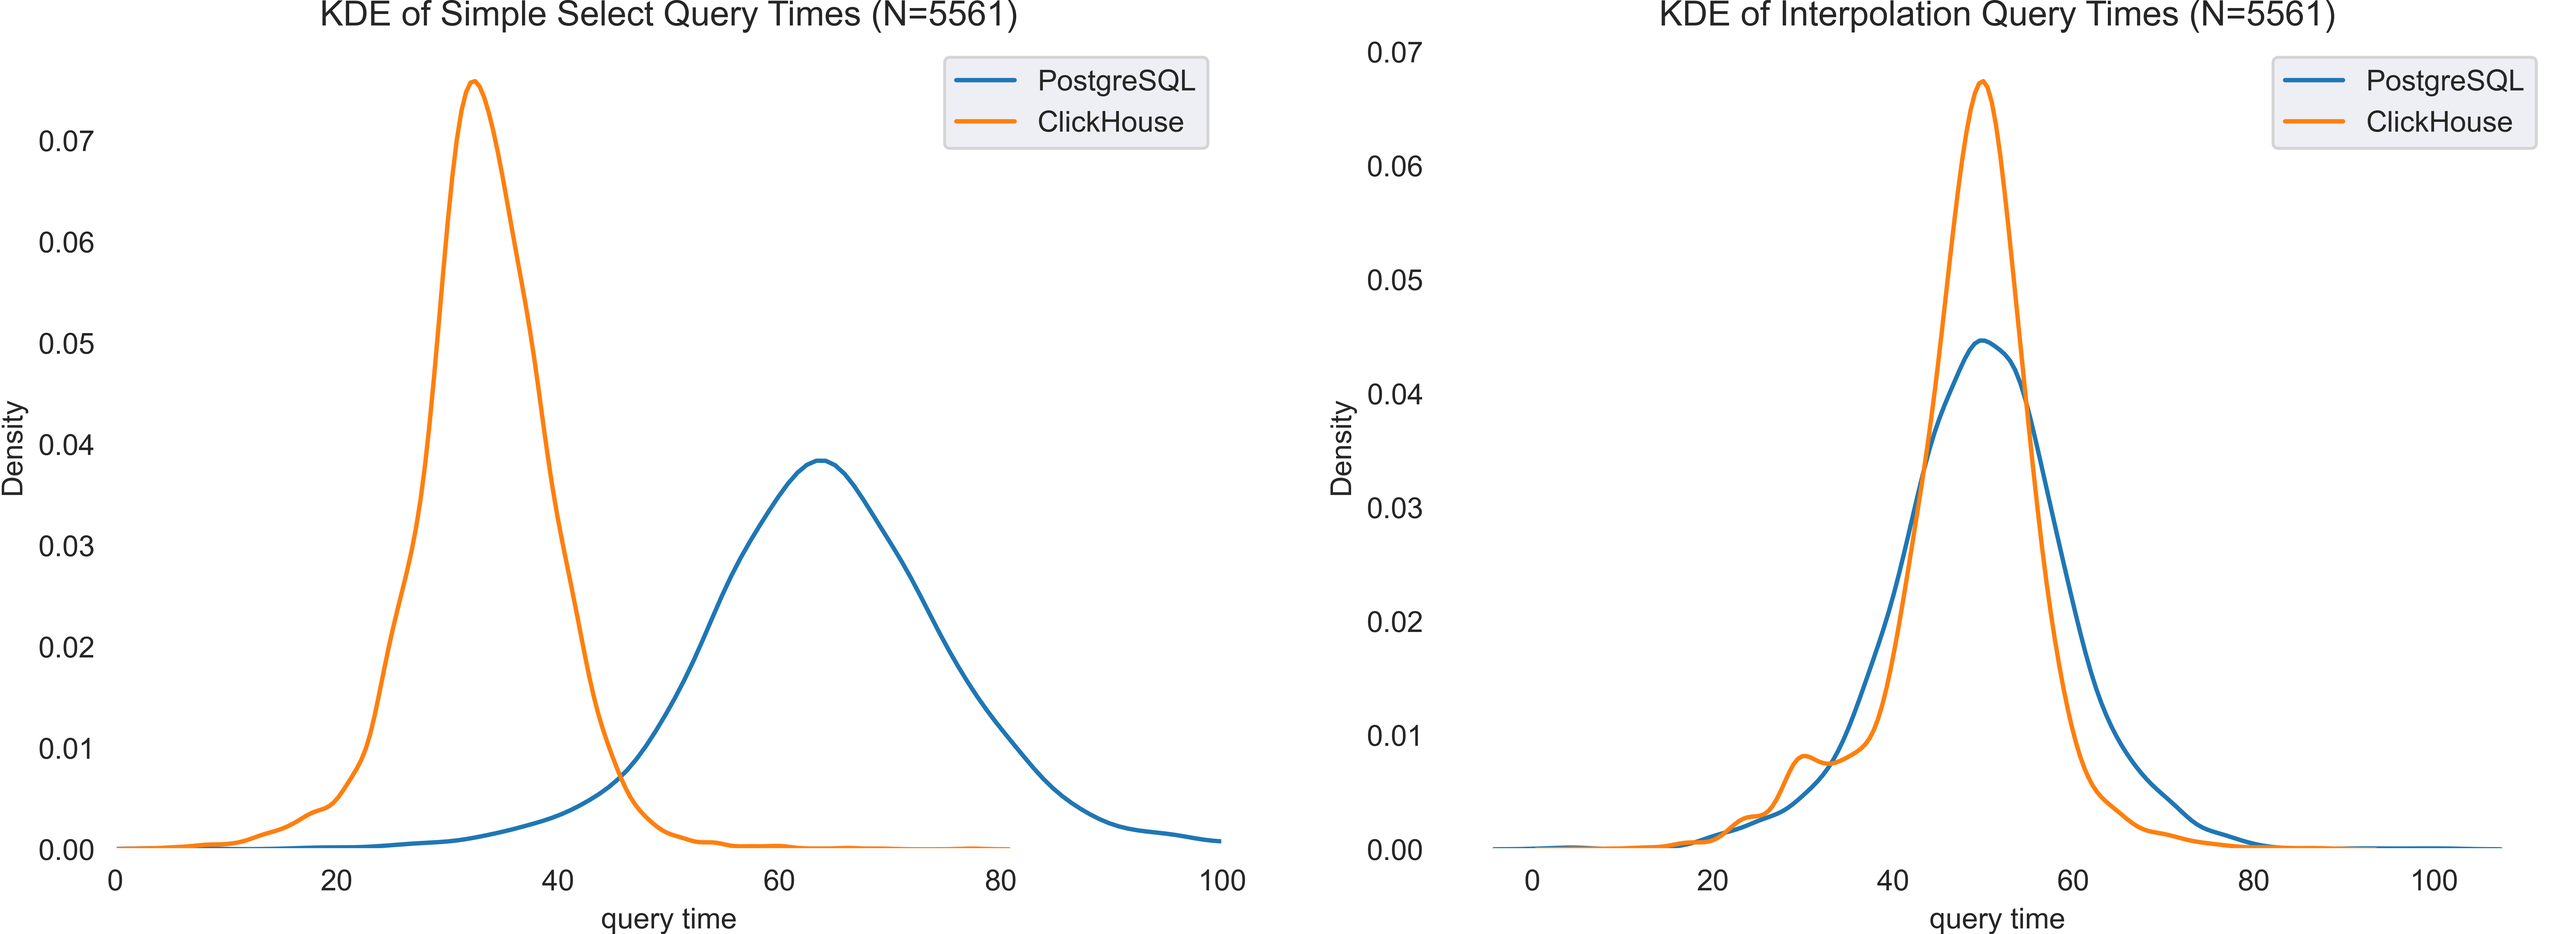
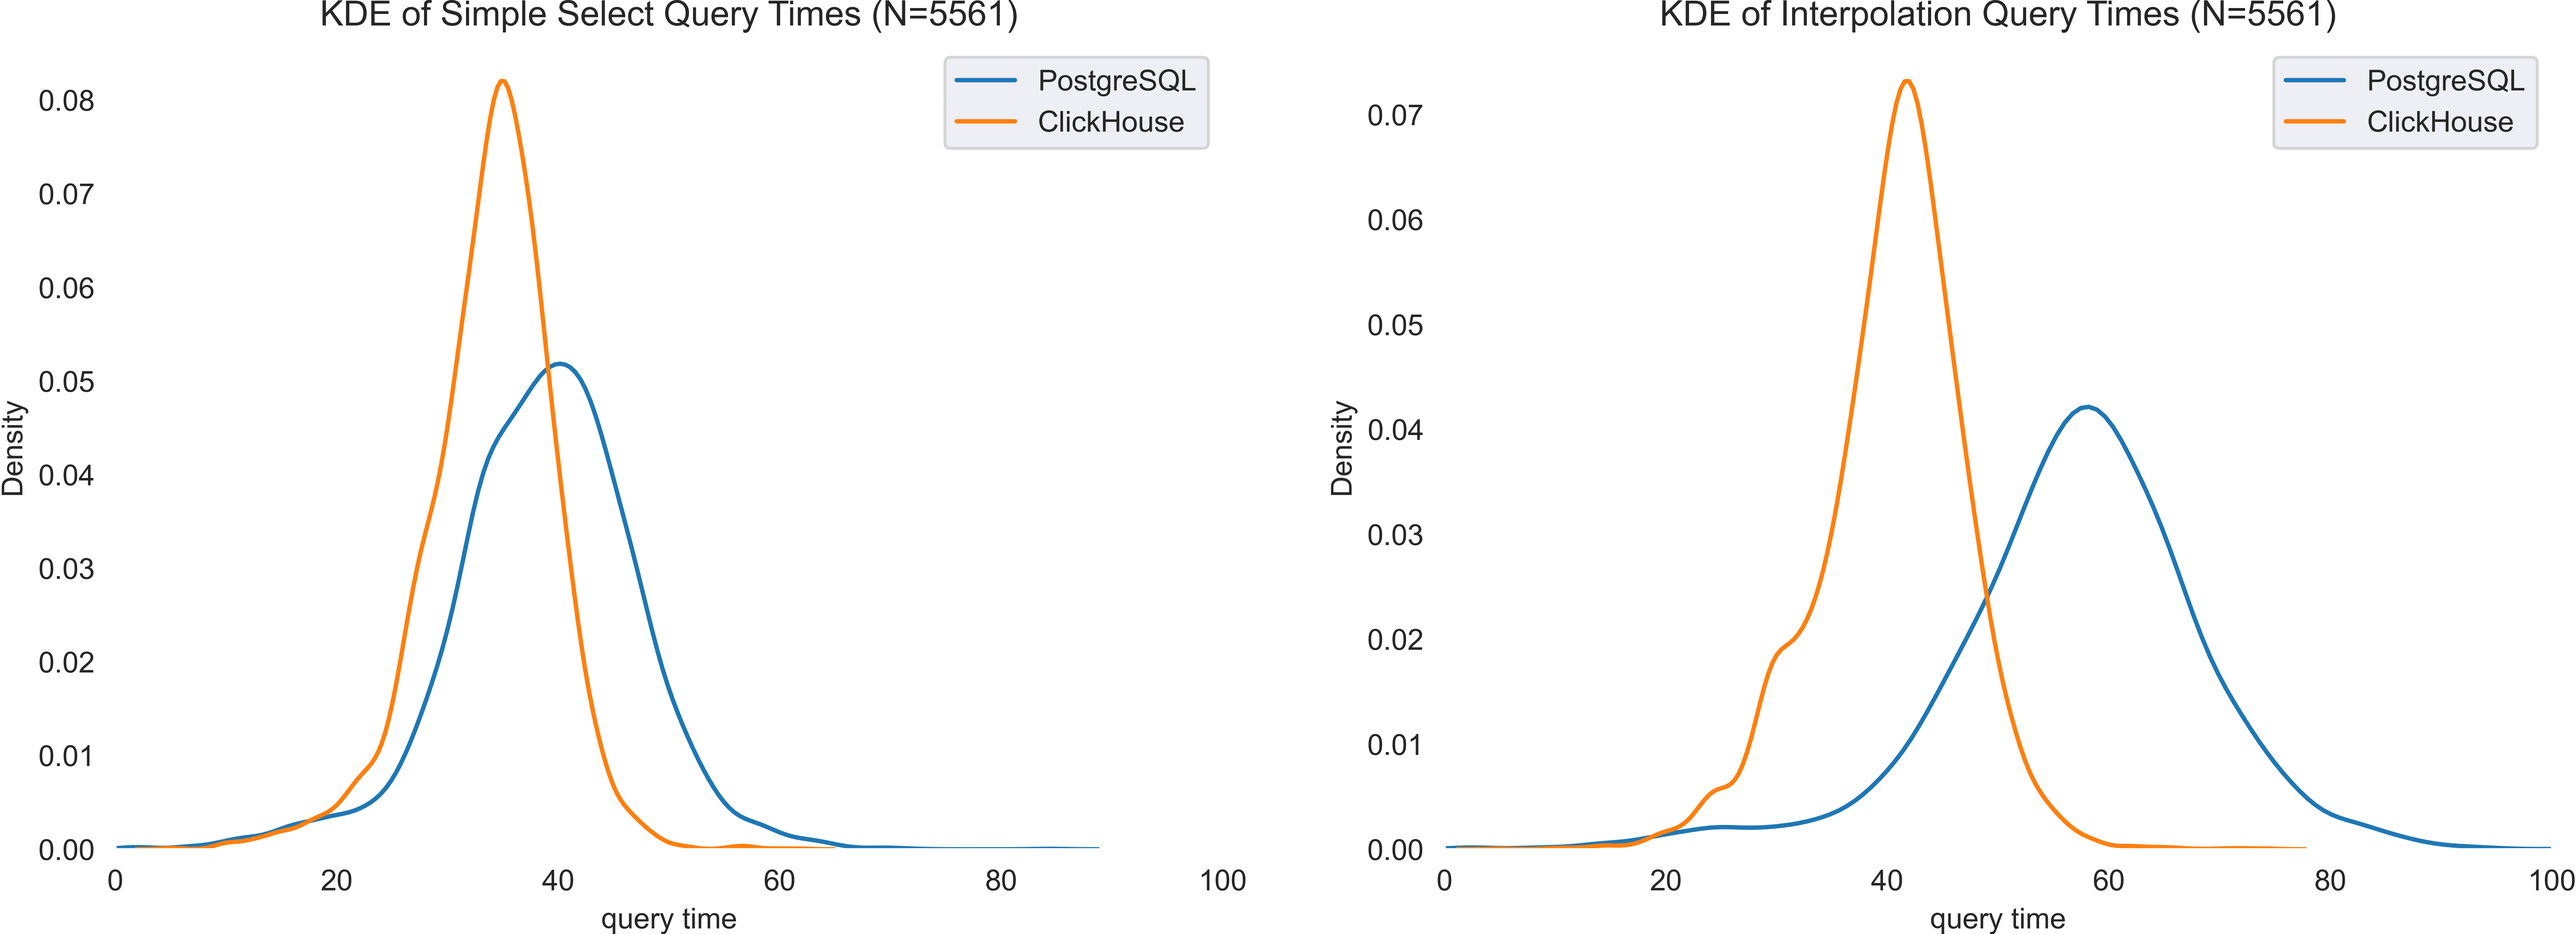
update graph after noticing a flaw in the design

diff --git a/query_kde.py b/query_kde.py
@@ -1,3 +1,4 @@
+import random
 import time
 
 import matplotlib.pyplot as plt
@@ -80,6 +81,8 @@ if __name__ == '__main__':
     pg_interp_results = []
     ch_interp_results = []
 
+    # Run each loop separately, in order to avoid caching results...
+    random.shuffle(device_ids)  # shuffle in order to avoid ordering effects...
     for device_id in device_ids:
         # Execute PostgreSQL queries
         start = time.perf_counter()
@@ -87,16 +90,19 @@ if __name__ == '__main__':
         _ = pg_cursor.fetchall()
         pg_select_results.append(1000 * (time.perf_counter() - start))
 
+    for device_id in device_ids:
         start = time.perf_counter()
         pg_cursor.execute(PG_INTERP_QUERY.format(id=device_id))
         _ = pg_cursor.fetchall()
         pg_interp_results.append(1000 * (time.perf_counter() - start))
 
+    for device_id in device_ids:
         # Execute ClickHouse queries
         start = time.perf_counter()
         _ = ch_client.execute(CH_SELECT_QUERY.format(id=device_id))
         ch_select_results.append(1000 * (time.perf_counter() - start))
 
+    for device_id in device_ids:
         start = time.perf_counter()
         _ = ch_client.execute(CH_INTERP_QUERY.format(id=device_id))
         ch_interp_results.append(1000 * (time.perf_counter() - start))
@@ -125,7 +131,7 @@ if __name__ == '__main__':
     sns.kdeplot(ch_interp_df['query time'], label='ClickHouse', ax=ax[1])
     ax[1].legend()
     ax[1].set_title(f"KDE of Interpolation Query Times (N={len(device_ids)})")
-    ax[0].set_xlim(0, 100)
+    ax[1].set_xlim(0, 100)
 
     plt.savefig(
         "figures/query-kde.png",
